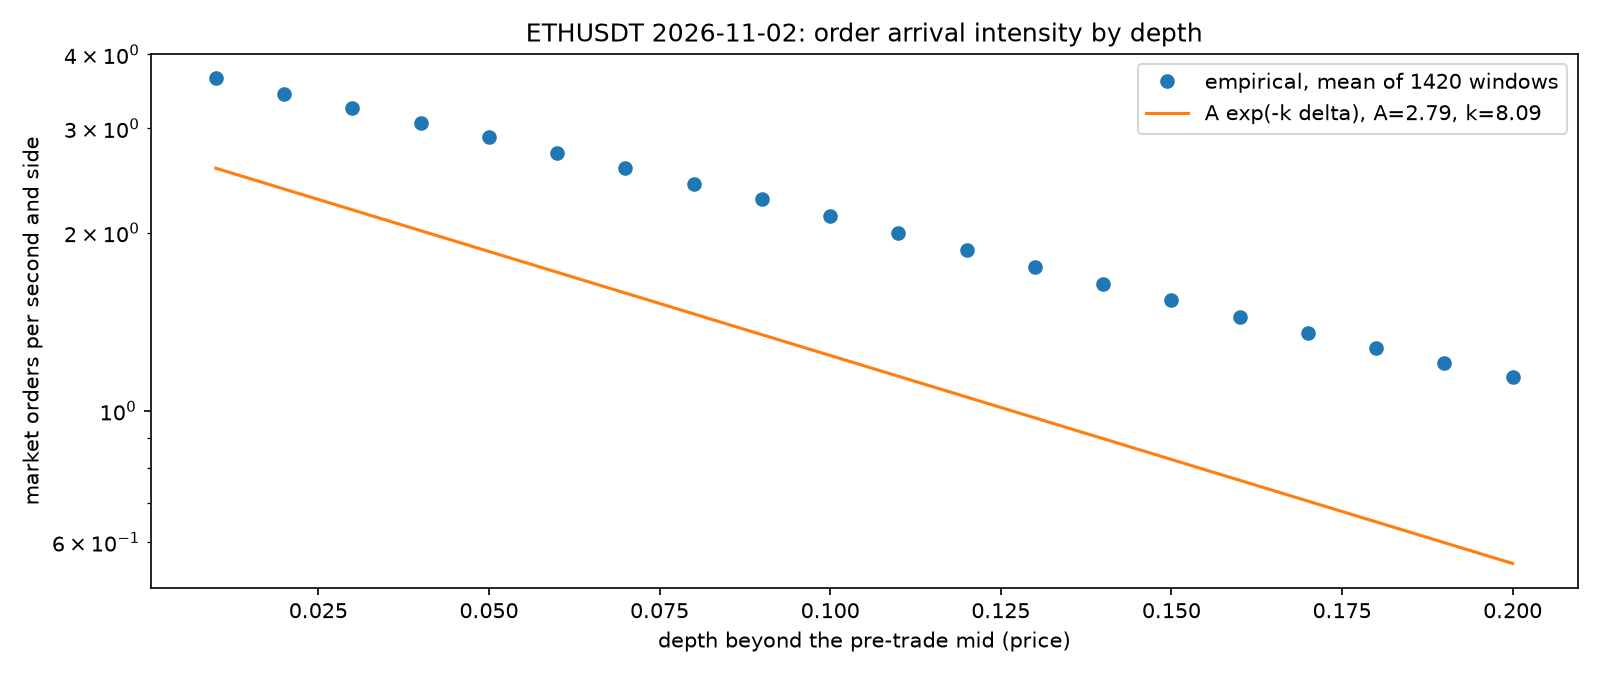
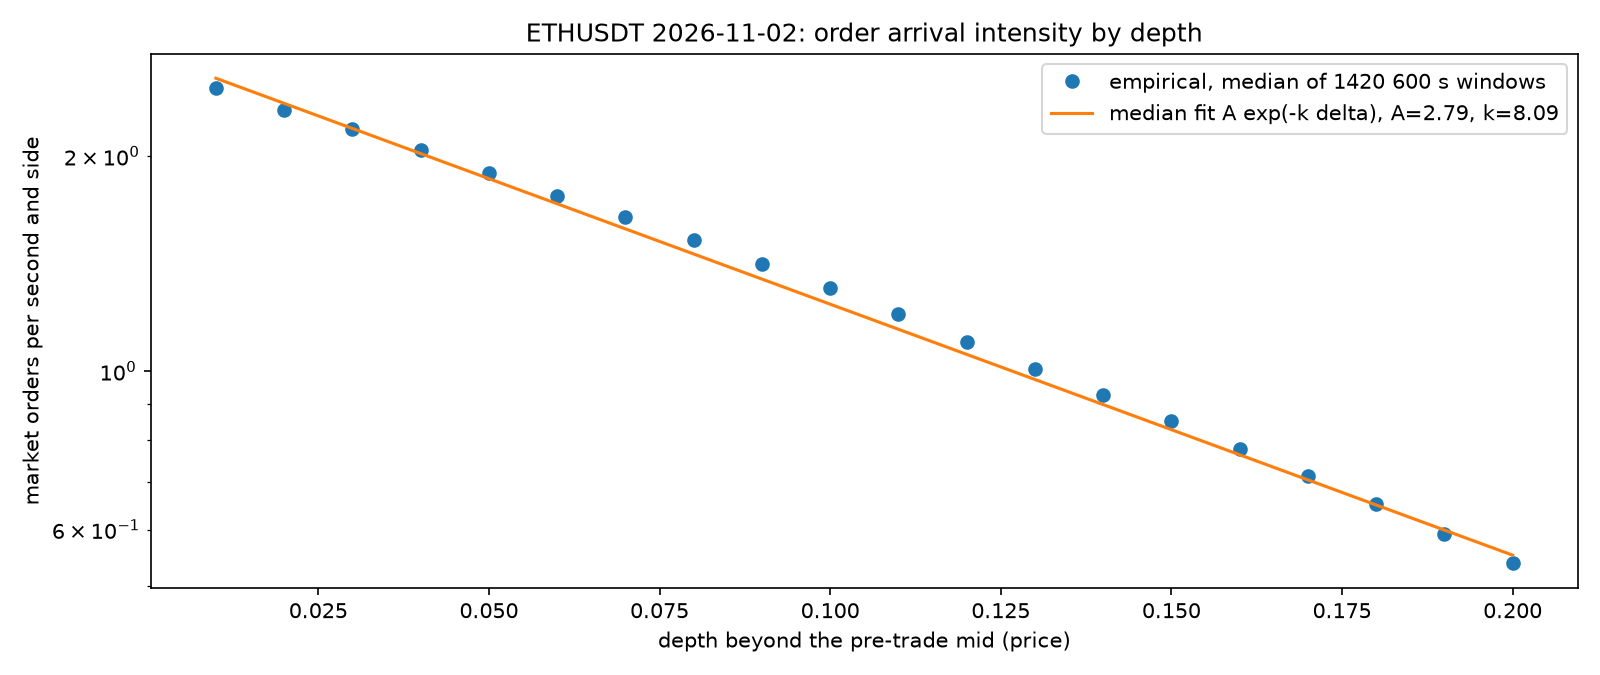
M3 outputs: reports, benchmark (provisional), real-data check, docs and README ticks

diff --git a/reports/tables/benchmark.md b/reports/tables/benchmark.md
@@ -1,22 +1,25 @@
 | metric | target | value | met | measured_utc | load_1m | provisional | python |
 |---|---|---|---|---|---|---|---|
-| NFR-01 events/s, synthetic 1M-event stream, GLFT | >= 50000 | 23396 | False | 2026-11-20T20:35Z | 20.6 | True | 3.13.16 |
-| NFR-12 peak RSS MB, synthetic stream | <= 4096 | 509 | True | 2026-11-20T20:35Z | 20.6 | True | 3.13.16 |
-| NFR-02 minutes per symbol-day, SOLUSDT 5 day(s), run 5dbe6d29 | <= 15 | 0.9 | True | 2026-11-20T20:35Z | 20.6 | True | 3.13.16 |
-| NFR-12 peak RSS MB, SOLUSDT 5 day(s), run 5dbe6d29 | <= 4096 | 2429 | True | 2026-11-20T20:35Z | 20.6 | True | 3.13.16 |
-| events/s real replay, SOLUSDT 5 day(s), run 5dbe6d29 | reported | 21520 | True | 2026-11-20T20:35Z | 20.6 | True | 3.13.16 |
-| NFR-02 minutes per symbol-day, SOLUSDT 5 day(s), run 0b1fdaef | <= 15 | 0.6 | True | 2026-11-20T20:35Z | 20.6 | True | 3.13.16 |
-| NFR-12 peak RSS MB, SOLUSDT 5 day(s), run 0b1fdaef | <= 4096 | 1962 | True | 2026-11-20T20:35Z | 20.6 | True | 3.13.16 |
-| events/s real replay, SOLUSDT 5 day(s), run 0b1fdaef | reported | 28719 | True | 2026-11-20T20:35Z | 20.6 | True | 3.13.16 |
-| NFR-02 minutes per symbol-day, ETHUSDT 5 day(s), run 2b2aa9c8 | <= 15 | 1.8 | True | 2026-11-20T20:35Z | 20.6 | True | 3.13.16 |
-| NFR-12 peak RSS MB, ETHUSDT 5 day(s), run 2b2aa9c8 | <= 4096 | 6399 | False | 2026-11-20T20:35Z | 20.6 | True | 3.13.16 |
-| events/s real replay, ETHUSDT 5 day(s), run 2b2aa9c8 | reported | 20895 | True | 2026-11-20T20:35Z | 20.6 | True | 3.13.16 |
-| NFR-02 minutes per symbol-day, BTCUSDT 5 day(s), run 0f9fd6c0 | <= 15 | 2.5 | True | 2026-11-20T20:35Z | 20.6 | True | 3.13.16 |
-| NFR-12 peak RSS MB, BTCUSDT 5 day(s), run 0f9fd6c0 | <= 4096 | 6821 | False | 2026-11-20T20:35Z | 20.6 | True | 3.13.16 |
-| events/s real replay, BTCUSDT 5 day(s), run 0f9fd6c0 | reported | 15400 | True | 2026-11-20T20:35Z | 20.6 | True | 3.13.16 |
-| NFR-02 minutes per symbol-day, ETHUSDT 5 day(s), run 53bd5471 | <= 15 | 2.1 | True | 2026-11-20T20:35Z | 20.6 | True | 3.13.16 |
-| NFR-12 peak RSS MB, ETHUSDT 5 day(s), run 53bd5471 | <= 4096 | 6047 | False | 2026-11-20T20:35Z | 20.6 | True | 3.13.16 |
-| events/s real replay, ETHUSDT 5 day(s), run 53bd5471 | reported | 17645 | True | 2026-11-20T20:35Z | 20.6 | True | 3.13.16 |
-| NFR-02 minutes per symbol-day, BTCUSDT 5 day(s), run 49c34249 | <= 15 | 2.7 | True | 2026-11-20T20:35Z | 20.6 | True | 3.13.16 |
-| NFR-12 peak RSS MB, BTCUSDT 5 day(s), run 49c34249 | <= 4096 | 6463 | False | 2026-11-20T20:35Z | 20.6 | True | 3.13.16 |
-| events/s real replay, BTCUSDT 5 day(s), run 49c34249 | reported | 14707 | True | 2026-11-20T20:35Z | 20.6 | True | 3.13.16 |
+| NFR-01 events/s, synthetic 1M-event stream, GLFT | >= 50000 | 37009 | False | 2026-11-20T20:42Z | 10.1 | True | 3.13.16 |
+| NFR-12 peak RSS MB, synthetic stream | <= 4096 | 1083 | True | 2026-11-20T20:42Z | 10.1 | True | 3.13.16 |
+| NFR-02 minutes per symbol-day, SOLUSDT 5 day(s), run 5dbe6d29 | <= 15 | 0.9 | True | 2026-11-20T20:42Z | 10.1 | True | 3.13.16 |
+| NFR-12 peak RSS MB, SOLUSDT 5 day(s), run 5dbe6d29 | <= 4096 | 2429 | True | 2026-11-20T20:42Z | 10.1 | True | 3.13.16 |
+| events/s real replay, SOLUSDT 5 day(s), run 5dbe6d29 | reported | 21520 | True | 2026-11-20T20:42Z | 10.1 | True | 3.13.16 |
+| NFR-02 minutes per symbol-day, SOLUSDT 5 day(s), run 0b1fdaef | <= 15 | 0.6 | True | 2026-11-20T20:42Z | 10.1 | True | 3.13.16 |
+| NFR-12 peak RSS MB, SOLUSDT 5 day(s), run 0b1fdaef | <= 4096 | 1962 | True | 2026-11-20T20:42Z | 10.1 | True | 3.13.16 |
+| events/s real replay, SOLUSDT 5 day(s), run 0b1fdaef | reported | 28719 | True | 2026-11-20T20:42Z | 10.1 | True | 3.13.16 |
+| NFR-02 minutes per symbol-day, ETHUSDT 5 day(s), run 2b2aa9c8 | <= 15 | 1.8 | True | 2026-11-20T20:42Z | 10.1 | True | 3.13.16 |
+| NFR-12 peak RSS MB, ETHUSDT 5 day(s), run 2b2aa9c8 | <= 4096 | 6399 | False | 2026-11-20T20:42Z | 10.1 | True | 3.13.16 |
+| events/s real replay, ETHUSDT 5 day(s), run 2b2aa9c8 | reported | 20895 | True | 2026-11-20T20:42Z | 10.1 | True | 3.13.16 |
+| NFR-02 minutes per symbol-day, BTCUSDT 5 day(s), run 0f9fd6c0 | <= 15 | 2.5 | True | 2026-11-20T20:42Z | 10.1 | True | 3.13.16 |
+| NFR-12 peak RSS MB, BTCUSDT 5 day(s), run 0f9fd6c0 | <= 4096 | 6821 | False | 2026-11-20T20:42Z | 10.1 | True | 3.13.16 |
+| events/s real replay, BTCUSDT 5 day(s), run 0f9fd6c0 | reported | 15400 | True | 2026-11-20T20:42Z | 10.1 | True | 3.13.16 |
+| NFR-02 minutes per symbol-day, ETHUSDT 5 day(s), run 53bd5471 | <= 15 | 2.1 | True | 2026-11-20T20:42Z | 10.1 | True | 3.13.16 |
+| NFR-12 peak RSS MB, ETHUSDT 5 day(s), run 53bd5471 | <= 4096 | 6047 | False | 2026-11-20T20:42Z | 10.1 | True | 3.13.16 |
+| events/s real replay, ETHUSDT 5 day(s), run 53bd5471 | reported | 17645 | True | 2026-11-20T20:42Z | 10.1 | True | 3.13.16 |
+| NFR-02 minutes per symbol-day, BTCUSDT 5 day(s), run 49c34249 | <= 15 | 2.7 | True | 2026-11-20T20:42Z | 10.1 | True | 3.13.16 |
+| NFR-12 peak RSS MB, BTCUSDT 5 day(s), run 49c34249 | <= 4096 | 6463 | False | 2026-11-20T20:42Z | 10.1 | True | 3.13.16 |
+| events/s real replay, BTCUSDT 5 day(s), run 49c34249 | reported | 14707 | True | 2026-11-20T20:42Z | 10.1 | True | 3.13.16 |
+| NFR-02 minutes per symbol-day, BTCUSDT 1 day(s), run e2aa0b2d | <= 15 | 1.5 | True | 2026-11-20T20:42Z | 10.1 | True | 3.13.16 |
+| NFR-12 peak RSS MB, BTCUSDT 1 day(s), run e2aa0b2d | <= 4096 | 2593 | True | 2026-11-20T20:42Z | 10.1 | True | 3.13.16 |
+| events/s real replay, BTCUSDT 1 day(s), run e2aa0b2d | reported | 21776 | True | 2026-11-20T20:42Z | 10.1 | True | 3.13.16 |

diff --git a/docs/decisions.md b/docs/decisions.md
@@ -74,3 +74,5 @@ Owner decisions copied from the portfolio's `DECISIONS.md` (2026-10-31 onwards),
 | M3-12 | 2026-11-20 | After a restart within an hour the recorder writes `part-HH-r1.parquet` next to `part-HH.parquet`. Files are ordered by hour, then restart number (name order put `-r1` first and broke the `ts_recv` order); `.tmp` files still being written are skipped | Found on 11-02 (21:00 and 23:00) |
 | M3-13 | 2026-11-20 | Per-session logs (orders, quotes) are stored column by column in typed arrays: a BTCUSDT day logs about 855,000 decisions, and dict rows took the probe to 8.7 GB peak memory against NFR-12's 4 GB | NFR-12 |
 | M3-14 | 2026-11-20 | The first two M3 launches failed and are in the trial log as `n_obs = 0` rows: restart-file order and off-grid SOLUSDT prices (M3-11, M3-12, in the stream and in a checkpoint), and a trial-log path check that resolved the `results/runs` symlink (BTCUSDT and ETHUSDT finished simulating, then failed to log). Each run's row now records the commit the run started from, not the repository when it ended | Rows stay; the failures count in N |
+| M3-15 | 2026-11-20 | **Performance, provisional** (load average 10 to 21 from other sessions; published numbers wait until after 2026-11-29). NFR-02 met: 0.6 to 2.7 minutes per symbol-day from the event cache. NFR-12: 2.6 GB peak on a BTCUSDT day after the cache reader stopped copying to int64 (the five-day BTCUSDT and ETHUSDT runs, before that fix, peaked at 6.0 to 6.8 GB). NFR-01 not met: 37,000 events/s on the 1M-event synthetic stream against 50,000. Top three hot spots (cProfile): the per-decision run-log appends (about a quarter of the time), the quote manager with `open_orders` on every decision, and the simulator's step and delivery loop; decisions every 100 ms outnumber market events | NFR-01 asks to report the actual value and the top three hot spots |
+| M3-16 | 2026-11-20 | AC-W-07 on real data: GLFT on SOLUSDT 2026-11-03 run twice gives identical `orders.parquet`, `fills.parquet` and normalized metrics (`tests/integration/test_real_determinism.py`, marker `data`). The 11-02 session of the five-day BTCUSDT run also matches a one-day run of 11-02 exactly | Exit criterion |

diff --git a/README.md b/README.md
@@ -2,7 +2,7 @@
 
 > Optimal quoting under inventory risk, tested on replayed order books, with P&L broken down to its sources.
 
-**Status:** in progress (M1 of 7: scaffolding, contracts and data access)
+**Status:** in progress (M3 of 7: real data, calibration and the first P&L decomposition)
 
 | | |
 |---|---|
@@ -14,8 +14,8 @@
 
 ## Requirements
 
-- [ ] Avellaneda–Stoikov (2008) and Guéant–Lehalle–Fernandez-Tapia (2013) quoting with inventory limits.
-- [ ] Parameters estimated from data: order-arrival intensity by distance from mid, volatility, fee tiers.
+- [x] Avellaneda–Stoikov (2008) and Guéant–Lehalle–Fernandez-Tapia (2013) quoting with inventory limits. (FR-09, FR-10, FR-11; AC-W-02, AC-W-03, AC-W-05, AC-W-14)
+- [x] Parameters estimated from data: order-arrival intensity by distance from mid, volatility, fee tiers. (FR-08, FR-12; AC-W-10)
 - [ ] Simulation with queue position and latency (reuse [event-driven-backtester](https://github.com/avmhdt/event-driven-backtester)).
 - [ ] P&L decomposition: spread capture, inventory P&L, adverse selection via markouts at several horizons, and fees and rebates.
 - [ ] Quotes skewed by your short-horizon signal from [crypto-lob-alpha](https://github.com/avmhdt/crypto-lob-alpha).
@@ -36,8 +36,8 @@ Raw and licensed data live in `data/`, which is git-ignored. Only download scrip
 
 ### Works (correct and reproducible)
 
-- [ ] In the synthetic Poisson world, simulated results match the analytic model.
-- [ ] Inventory stays within limits, and the P&L components sum exactly to total P&L.
+- [x] In the synthetic Poisson world, simulated results match the analytic model. (AC-W-01 to AC-W-04; AC-W-02 with the documented exception M2-20)
+- [x] Inventory stays within limits, and the P&L components sum exactly to total P&L. (AC-W-05, AC-W-06, on synthetic and recorded runs)
 
 ### Impresses hirers
 

diff --git a/docs/hardware.md b/docs/hardware.md
@@ -25,4 +25,8 @@ Footer counts of crypto-lob-alpha's capture for 2026-11-08 (`mms data check`):
 | ETHUSDT | 58,687,569 | 898,975 |
 | SOLUSDT | 16,786,270 | 247,161 |
 
-On-disk size per symbol-day is about 170 MB of zstd Parquet for BTCUSDT book_l2 (24 hourly files of about 7 MB).
+On-disk size per symbol-day is about 170 MB of zstd Parquet for BTCUSDT book_l2 (24 hourly files of about 7 MB) on 2026-11-08; busier days reach 146M book rows (`mms data check` over 2026-11-02 to 11-19, 48 symbol-days, 0 problems).
+
+The decoded event cache (`$DATA_ROOT/interim/events`, docs/decisions.md M3-10) takes about 1.3 GB per BTCUSDT day, 1.1 GB per ETHUSDT day and 0.26 GB per SOLUSDT day: 13 GB for the 15 tuning symbol-days.
+
+Since 2026-11-17 the repository and the WSL distro live on G: (`G:\WSL\Ubuntu`); D: was failing.
